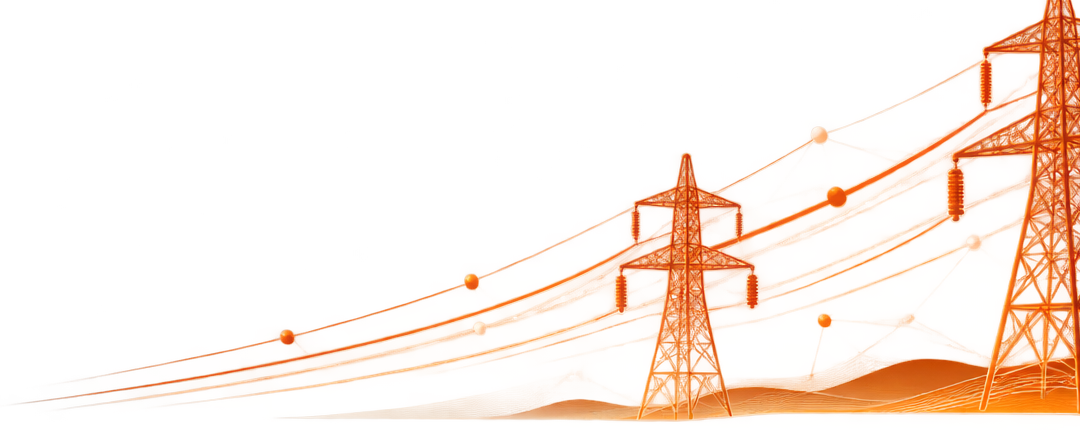
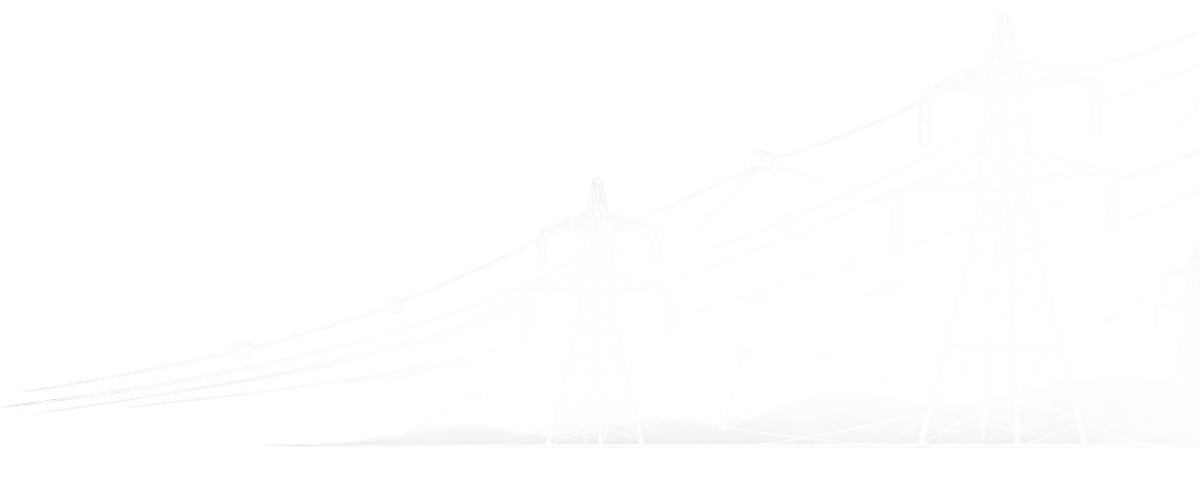
Red Dark Design: swap OHTL photography for white-line grid overlay art
- Replaced ohtl-orange.png/ohtl-green.png with crops of Yasser's new
  'White-Line Power Grid Overlays.png' (transparent white tower/wire
  line art) instead of the earlier real photography -- reads cleanly
  against both the orange L0 and green L1 solid panel colors, no
  gradient-dimming needed to avoid clashing with photo color
- Dashboard KPI: dropped the fabricated 'Target: 90 days' subtext on
  Avg. Time to Contract -- not a real backend-sourced figure

diff --git a/frontend/static/app.js b/frontend/static/app.js
@@ -179,7 +179,10 @@
   // inserted as the table's previous sibling so it never needs its own
   // spot carved out of each view's markup.
   function _xhInstallClearBar(theadRowEl, onClear) {
-    var table = theadRowEl.closest("table");
+    // Every other table this installs on is a real <table>; Assigned
+    // Deliverables' .aqt is a div-based grid (see loadAssigned) with no
+    // <table> ancestor at all, so it falls back to that wrapper instead.
+    var table = theadRowEl.closest("table") || theadRowEl.closest(".aqt");
     if (!table || !table.parentNode) return null;
     var bar = el("div", "xh-clearbar");
     var btn = el("button", "xh-clearbar-btn", "&#10005; Clear filters");
@@ -772,7 +775,7 @@
     if (!row) return;
     row.innerHTML = "";
     var conversionSub = k.conversion_rate != null ? k.l1_lifetime + " of " + k.l0_lifetime + " tenders" : "&#8213;";
-    var timeSub = k.avg_time_to_contract_days != null ? "Target: 90 days" : "Not enough data yet";
+    var timeSub = k.avg_time_to_contract_days != null ? "" : "Not enough data yet";
     var completedTrend = k.completed_wow_change_pct == null ? "" :
       '<span class="dash-kpi-sub ' + (k.completed_wow_change_pct >= 0 ? "up" : "down") + '"> &middot; ' +
       (k.completed_wow_change_pct >= 0 ? "&#8593; " : "&#8595; ") + Math.abs(k.completed_wow_change_pct) + "% vs last week</span>";
@@ -1180,8 +1183,6 @@
   // now, each its own chip row, combined with AND logic.
   var assignedDeadlineFilter = "";
   var assignedProgressFilter = "";
-  var assignedEstFilter = "";
-  var assignedSortBy = "newest";
   var assignedStage = "";
   var DEADLINE_FILTERS = [
     ["", "All"], ["not_due", "Not Due"], ["due", "Due"],
@@ -1232,7 +1233,6 @@
   function deliverableMatchesFilters(d) {
     if (assignedDeadlineFilter && d.deadline_status !== assignedDeadlineFilter) return false;
     if (assignedProgressFilter && d.status !== assignedProgressFilter) return false;
-    if (assignedEstFilter && d.est_no !== assignedEstFilter) return false;
     return true;
   }
   // Item 121: jump to Assigned Deliverables pre-filtered, from a Dashboard
@@ -1242,7 +1242,6 @@
   function goToAssignedFilter(axis, value, stage) {
     assignedDeadlineFilter = axis === "deadline" ? value : "";
     assignedProgressFilter = axis === "progress" ? value : "";
-    assignedEstFilter = "";
     // Item 32: an L0/L1 subtotal click on the Dashboard pre-filters to that
     // one stage too, not just the deadline/progress axis.
     assignedStage = stage || "";
@@ -1257,47 +1256,55 @@
       loadAssigned();
     });
   });
-  // Sort options for Assigned Deliverables -- "newest" (last submit/review
-  // activity, most recent first) is the default, matching what this page
-  // always did before this was made selectable. Items missing the relevant
-  // field (no activity yet / no due date) always sink to the bottom
-  // regardless of direction, rather than clustering at whichever end the
-  // raw sort value (-1/Infinity) would otherwise put them.
-  function _assignedSortComparator(sortBy) {
-    function actionTs(d) { return d.last_action_at ? new Date(d.last_action_at).getTime() : null; }
-    function dueTs(d) { return d.due_date ? new Date(d.due_date).getTime() : null; }
-    function byNullableNumber(getter, ascending) {
-      return function (a, b) {
-        var av = getter(a), bv = getter(b);
-        if (av === null && bv === null) return 0;
-        if (av === null) return 1;
-        if (bv === null) return -1;
-        return ascending ? av - bv : bv - av;
+  // Items 4/36: Est No. filter + Sort By dropdown replaced with the same
+  // Excel-style header sort/filter as L0 Tenders/L1 Projects/Open
+  // Questions -- one controller, built once against the static header row
+  // (#assignedTableHead, index.html) and reused on every re-render.
+  var _assignedXh = null;
+  function _getAssignedXh() {
+    if (_assignedXh) return _assignedXh;
+    function uniq(getter) {
+      return function () {
+        var seen = {}, out = [];
+        _assignedAll.forEach(function (d) {
+          var v = getter(d); v = v == null || v === "" ? "" : String(v);
+          if (!seen[v]) { seen[v] = true; out.push(v); }
+        });
+        return out.sort(function (a, b) { return a.localeCompare(b, undefined, { numeric: true, sensitivity: "base" }); });
       };
     }
-    // Most items on this page have no submit/review activity at all yet
-    // (still "No Progress Yet"), so a pure activity sort leaves every one
-    // of them tied at null -- a no-op that just falls back to whatever
-    // arbitrary order the backend query returned. Break that tie by due
-    // date (soonest first) so "Newest/Oldest Activity First" still yields
-    // a sensible, stable order even when nothing has happened on anything
-    // yet, instead of looking broken.
-    var dueSoonTiebreak = byNullableNumber(dueTs, true);
-    switch (sortBy) {
-      case "oldest": {
-        var cmpOldest = byNullableNumber(actionTs, true);
-        return function (a, b) { return cmpOldest(a, b) || dueSoonTiebreak(a, b); };
-      }
-      case "due_soon": return byNullableNumber(dueTs, true);
-      case "due_late": return byNullableNumber(dueTs, false);
-      case "est_no": return function (a, b) { return (a.est_no || "").localeCompare(b.est_no || ""); };
-      case "name": return function (a, b) { return (a.name || "").localeCompare(b.name || ""); };
-      case "newest": default: {
-        var cmpNewest = byNullableNumber(actionTs, false);
-        return function (a, b) { return cmpNewest(a, b) || dueSoonTiebreak(a, b); };
-      }
-    }
+    var deptOf = function (d) { return deptLabel(d.department, d.department_number); };
+    var dueTs = function (d) { return d.due_date ? new Date(d.due_date).getTime() : null; };
+    var columns = [
+      { key: "est_no", get: function (d) { return d.est_no; }, uniqueValues: uniq(function (d) { return d.est_no; }) },
+      { key: "name", get: function (d) { return d.name; }, filterable: false },
+      { key: "department", get: deptOf, uniqueValues: uniq(deptOf) },
+      { key: "owner", get: function (d) { return d.owner || ""; }, uniqueValues: uniq(function (d) { return d.owner || ""; }) },
+      { key: "deadline", get: ASSIGNED_DEADLINE_LABEL, uniqueValues: uniq(ASSIGNED_DEADLINE_LABEL) },
+      { key: "progress", get: ASSIGNED_PROGRESS_LABEL, uniqueValues: uniq(ASSIGNED_PROGRESS_LABEL) },
+      { key: "due_date", get: function (d) { return fmtDate(d.due_date); }, sortValue: dueTs, filterable: false },
+      null, // Actions -- buttons, not a plain sortable/filterable value
+    ];
+    var theadRow = document.getElementById("assignedTableHead");
+    _assignedXh = installExcelHeader(theadRow, columns);
+    _assignedXh.onChange(function () { _renderAssignedList(); });
+    return _assignedXh;
   }
+  function ASSIGNED_DEADLINE_LABEL(d) {
+    if (d.status === "not_required" || d.status === "pending_triage") return "–";
+    var meta = DEADLINE_META[d.deadline_status] || ["neutral", d.deadline_status];
+    return meta[1];
+  }
+  function ASSIGNED_PROGRESS_LABEL(d) {
+    if (d.status === "approved" && d.auto_completed) return "Auto-Completed";
+    var meta = STATUS_META[d.status] || ["neutral", d.status];
+    return meta[1];
+  }
+  // Populated by loadAssigned() on every fetch; read by _getAssignedXh()'s
+  // uniqueValues() closures and re-rendered (filter/sort only, no refetch)
+  // by _renderAssignedList() -- same split as every other Excel-header
+  // table (fetch once, re-render locally as sort/filter state changes).
+  var _assignedAll = [];
   async function loadAssigned() {
     // Item 166: a non-admin only sees their own assigned deliverables
     // (owner or SME on that item) -- previously every role saw the
@@ -1306,6 +1313,7 @@
     if (passiveIdentity()) qs += "&actor_email=" + encodeURIComponent(passiveIdentity());
     var everything = await api("/api/deliverables" + qs);
     var all = assignedStage ? everything.filter(function (d) { return d.stage === assignedStage; }) : everything;
+    _assignedAll = all;
     document.getElementById("assignedBadge").textContent = everything.filter(function (d) { return d.deadline_status === "due"; }).length || "";
 
     var deadlineBase = assignedProgressFilter ? all.filter(function (d) { return d.status === assignedProgressFilter; }) : all;
@@ -1326,20 +1334,11 @@
       { no_progress: "", in_progress: "warn", pending_review: "warn", approved: "good", rejected: "crit" },
       function (v) { assignedProgressFilter = v; loadAssigned(); });
 
-    var estSel = document.getElementById("assignedEstFilter");
-    var seenEsts = {};
-    all.forEach(function (d) { seenEsts[d.est_no] = true; });
-    estSel.innerHTML = '<option value="">All</option>';
-    Object.keys(seenEsts).sort().forEach(function (n) { var o = el("option", "", n); o.value = n; estSel.appendChild(o); });
-    estSel.value = assignedEstFilter;
-    estSel.onchange = function () { assignedEstFilter = estSel.value; loadAssigned(); };
-
-    var sortSel = document.getElementById("assignedSortBy");
-    sortSel.value = assignedSortBy;
-    sortSel.onchange = function () { assignedSortBy = sortSel.value; loadAssigned(); };
-
-    var items = all.filter(deliverableMatchesFilters);
-    items = items.slice().sort(_assignedSortComparator(assignedSortBy));
+    _renderAssignedList();
+  }
+  function _renderAssignedList() {
+    var items = _assignedAll.filter(deliverableMatchesFilters);
+    items = _getAssignedXh().process(items);
     var wrap = document.getElementById("assignedList");
     wrap.innerHTML = "";
     if (!items.length) { wrap.appendChild(el("div", "empty-state", "Nothing here right now.")); return; }
@@ -1347,14 +1346,9 @@
     // the side, no status pills. Grid-based (see .aqt-row in styles.css) so
     // it always fits the card width instead of ever needing horizontal
     // scroll -- text columns ellipsize under pressure rather than overflow.
-    var table = el("div", "aqt");
-    var head = el("div", "aqt-row aqt-head");
-    ["Est No.", "Deliverable", "Department", "Focal Point", "Deadline", "Progress", "Due Date", "Actions"].forEach(function (label, i) {
-      var cell = el("div", "aqt-cell", label);
-      if (i === 3) cell.classList.add("aqt-focal");
-      head.appendChild(cell);
-    });
-    table.appendChild(head);
+    // Header row is static markup (#assignedTableHead, index.html) so the
+    // Excel-header controller's state survives this rebuild -- only body
+    // rows get replaced here.
     items.forEach(function (d) {
       var row = el("div", "aqt-row aqt-body-row");
       row.dataset.sid = String(d.id);
@@ -1414,9 +1408,8 @@
         }
       }
       row.appendChild(actions);
-      table.appendChild(row);
+      wrap.appendChild(row);
     });
-    wrap.appendChild(table);
   }
   function followButton(d) {
     var btn = el("button", "btn" + (d.following ? " primary" : ""), d.following ? "&#9733; Following" : "&#9734; Follow");
